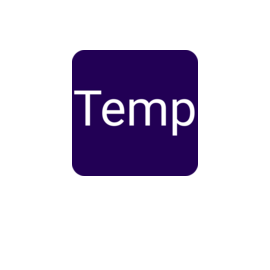
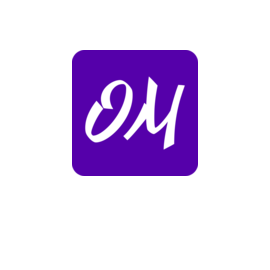
Configure Repo

Changed region(s): [[0.2667, 0.1778, 0.7407, 0.6519]]

diff --git a/components/Layout.tsx b/components/Layout.tsx
@@ -3,11 +3,12 @@ import Head from 'next/head';
 
 import Header from './Header';
 
-const defaultTitle = 'NextJS Template';
-const defaultDescription = 'NextJS template repo with TypeScript and SCSS support';
-const defaultCanonicalUrl = 'https://localhost:3000';
-const defaultOgpImg = 'https://localhost:3000/OGP.png';
-const defaultOgpImgAlt = 'The word temp';
+const defaultTitle = 'Otman Maowed';
+const defaultSiteName = 'Otman Maowed';
+const defaultDescription = 'Online CV for Otman Maowed, a Frontend Developer based in Canada';
+const defaultCanonicalUrl = 'https://www.otman.me';
+const defaultOgpImg = 'https://www.otman.me/OGP.png';
+const defaultOgpImgAlt = 'Purple Background with the word Otman Maowed in the center';
 
 interface BaseProps {
   title?: string;
@@ -49,7 +50,7 @@ const Layout = ({
     <Head>
       <title>{title}</title>
       <meta property="og:title" content={title} />
-      <meta property="og:site_name" content="NextJS TS SCSS Template" />
+      <meta property="og:site_name" content={defaultSiteName} />
       <meta property="og:type" content={ogpType} />
       <meta property="description" content={description} />
       <meta property="og:description" content={description} />

diff --git a/styles/_config.scss b/styles/_config.scss
@@ -5,7 +5,7 @@
   --font-color: hsl(0, 0%, 0%);
 
   @media (prefers-color-scheme: dark) {
-    --background-color: hsl(225, 3%, 29%);
+    --background-color: hsl(0, 0%, 13%);
     --font-color: hsl(0, 0%, 100%);
   }
 }
@@ -64,7 +64,7 @@ a {
   text-decoration: none;
 
   &:hover {
-    color: $blue-300;
+    color: $purple-200;
   }
 }
 
@@ -74,7 +74,7 @@ button {
   color: inherit;
 
   &:hover {
-    color: $blue-300;
+    color: $purple-200;
   }
 }
 

diff --git a/styles/_variables.scss b/styles/_variables.scss
@@ -12,10 +12,11 @@ $max-width: 76.8rem; // same as tablet size but responsive
 $black: hsl(0, 0%, 0%);
 $white: hsl(0, 0%, 100%);
 $grey: hsl(0, 0%, 50%);
-$blue-300: hsl(243, 80%, 60%);
-$blue-400: hsl(243, 70%, 57%);
-$blue-500: hsl(243, 54%, 40%);
-$blue-600: hsl(244, 54%, 24%);
+$purple-200: #a75edb;
+$purple-300: #77439c;
+$purple-400: #3c224f;
+$purple-500: #46275c;
+$purple-600: #291736;
 
 /* TEMPLATES */
 

diff --git a/components/Header/styles.module.scss b/components/Header/styles.module.scss
@@ -5,7 +5,7 @@
   top: 0;
   z-index: 100;
   width: 100%;
-  background: $blue-600;
+  background: $purple-500;
   color: $white;
   box-shadow: 0 0 1rem $black;
 

diff --git a/README.md b/README.md
@@ -1,10 +1,6 @@
-# nextjs-template
+# C-V
 
-Template to use to bootstrap [NextJS](https://nextjs.org/) project with [Typescript](https://www.typescriptlang.org/) and [SCSS](https://sass-lang.com/).
-
-The template has settings and prebuilt features described below for easier development. Change them as needed.
-
-This template will be updated regularly with new defaults and updates
+Online CV for Otman Maowed, a Frontend Developer based in Canada
 
 ## Installation
 
@@ -12,53 +8,9 @@ This template will be updated regularly with new defaults and updates
 
 2. Consider installing the project recommended extensions for VS Code.
 
-   2.1. This project uses [Peacock Extension](https://marketplace.visualstudio.com/items?itemName=johnpapa.vscode-peacock), to theme VS Code Editor. Edit/remove it as you see fit.
-
 3. Install packages: `yarn install`
 
 4. Start dev server: `yarn dev`
-
-## Guidelines
-
-- Every page component located in `pages/*` must be wrapped in the `<Layout>` component for easy meta tag customization.
-
-- Page component styles are located in `styles/pageStyles/*` and can be imported with `@styles/*`. Whereas component stylesheets should be located within their respective folders named as `styles.module.scss`.
-
-- Change browser styling defaults in `styles/_config.scss`. The `globals.scss` file is for global classnames.
-
-  - To create a global style first create an SCSS template or mixin in `styles/_variables.scss` for reusability.
-
-  - The repo use [Normalize.css](https://necolas.github.io/normalize.css/) via `styles/_normalize.scss`
-
-  - The repo has system based automatic dark/light mode swap.
-
-  - The repo has responsive font size of base 10, 9, 8 based on screen size.
-
-- The Header component is configured for responsive mobile styling. It will appear at the bottom of the screen on small screen sizes.
-
-- The repo utilizes [Open Graph Protocol](https://opengraphprotocol.org/). The default values are defined in `components/Layout.tsx`.
-
-- The repo uses [@svgr/webpack](https://www.npmjs.com/package/@svgr/webpack) to allow inline SVG components.
-
-## Default Settings
-
-### Change these settings as needed before releasing/working on the project
-
-- Edit the Google Fonts in `pages/_document.tsx`. The default is [Roboto](https://fonts.google.com/specimen/Roboto).
-
-- Generate and replace the default Favicon settings in `pages/_document.tsx` and `public/*`. [RealFaviconGenerator](https://realfavicongenerator.net) was used to create the temporary favicon.
-
-- Change default meta tags variables in `components/Layout.tsx`
-
-- Change the `og:site_name` value in `components/Layout.tsx`
-
-- Create an image for Open Graph Protocol and replace the defaults in `components/Layout.tsx` and `public/OGP.png`. The image should `1200 x 630` in dimension for best result.
-
-- Edit theming colors in `styles/_variables.scss`. Use [Adobe Color](https://color.adobe.com/) to create a gradient. Default is `#4A43DE` and its shades are used.
-
-- Edit dark mode background and font colors in `styles/_config.scss` if needed.
-
-- Remove `.gitkeep` files as needed.
 
 ## Scripts
 
